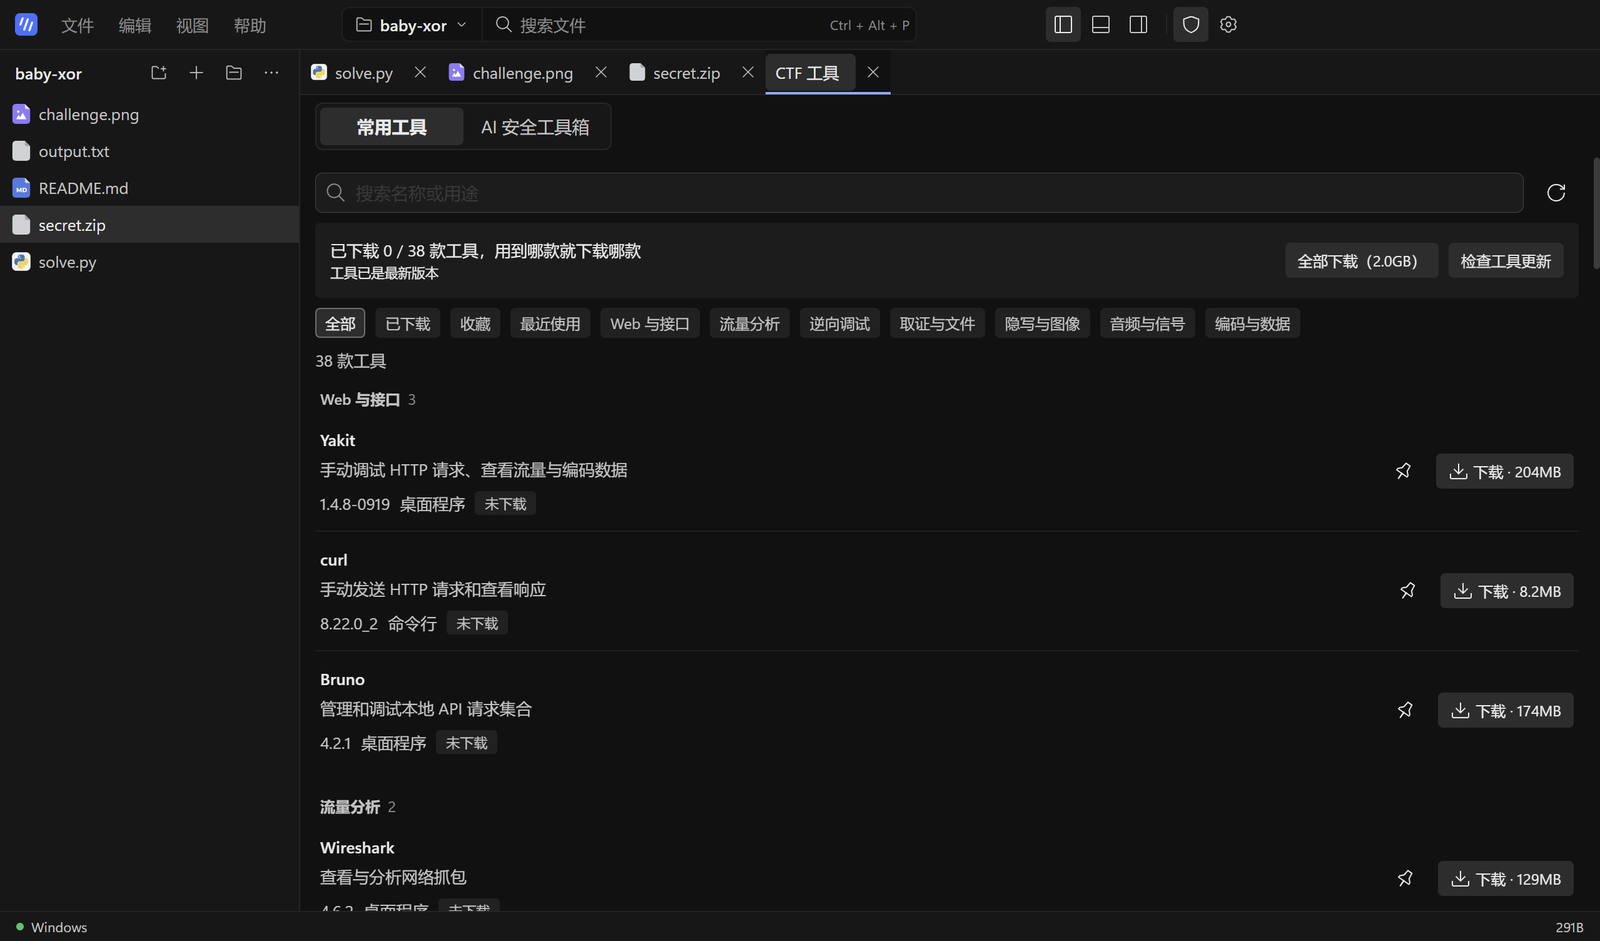
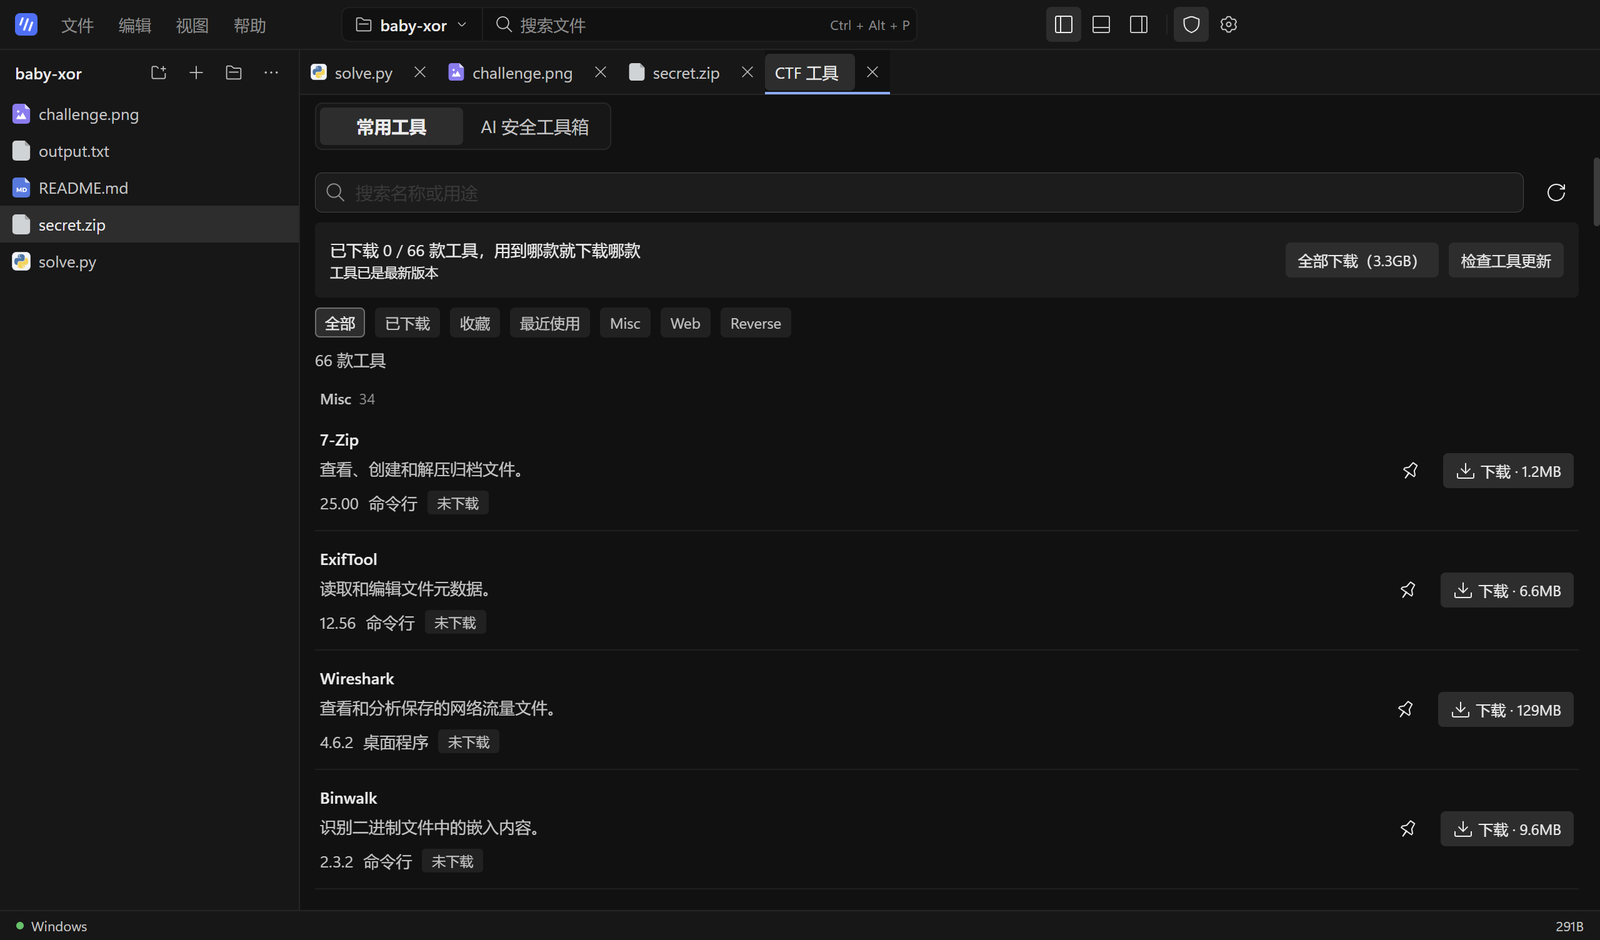
Record the 2.3.0 validation and show the 66-tool catalog

diff --git a/docs/validation.md b/docs/validation.md
@@ -1,5 +1,29 @@
 # Rainy 验收记录
 
+## 2.3.0（2026-10-14）
+
[1 lines of base64/hex data omitted]
+
+### 改动
+
+- 编辑器边写边补全：停止输入 450 毫秒后，如果光标后只有右括号或标点，就向模型请求一条建议，以灰色显示在光标后；Tab 接受，Ctrl+→ 取一个词，Esc 忽略。默认关闭，可在“设置 → 模型 → 编辑器中的 AI”或状态栏开关，并可单独选择补全模型（Host 新增 `inline.complete`，关闭时不发请求，新请求会中止上一条）。
+- Ctrl+K 改代码：选中的行（或光标处）上方出现输入框，Host 用对话模型流式生成（`inline.edit`、`inline.progress`、`inline.cancel`），新代码边生成边写入编辑器。审阅时按行比较原文，只标出改动的行，被替换的行以删除线显示；Ctrl+Enter 接受，Esc 恢复原文。Markdown 与 SVG 保留 Ctrl+K V 预览快捷键，可从右键菜单使用。
+- 偏好新增 `inlineCompletion`（默认 false）与 `completionModel`（默认空，即对话模型），旧设置文件照常读取。
+- 安装包内置工具通道修订 3 的目录：66 款工具，分为 Misc、Web、Reverse 三组（见下方“工具通道修订 3”）。
+
+### 检查
+
+- **测试**：本机 Windows 11 上 Vitest 89 个文件 805 项通过（10 项按平台跳过），node:test 132 项通过（2 项跳过）。Ubuntu 24.04 与 Windows 2022 CI 均通过（[运行记录](https://github.com/RainyMarks/Rainy/actions/runs/38609227928)）。
+- **编辑器中的 AI**：源码版本与打包程序分别在临时用户数据下连接本地模拟模型服务（OpenAI 兼容接口），打开示例题目的 `solve.py`：行尾输入后出现灰色建议，Tab 后写入代码；选中一行按 Ctrl+K 输入要求，新代码写入并标为绿色、原行以删除线显示，行号与代码对齐，Ctrl+Enter 后标记与输入框消失；“设置 → 模型”显示“编辑器中的 AI”卡片，状态栏显示补全开关。中英文界面各检查一次；只新增几行时，未改动的行不做标记。
+- **安装包内容**：7-Zip 解开后 9,332 个文件与 `release/win-unpacked` 逐一一致。
+- **试运行**：用临时用户数据启动，约 5.5 秒显示工作台。名称为 Rainy、版本为 2.3.0，66 款工具可用，页面错误为零，关闭窗口后进程全部退出。
+- **完整流程**：打包程序在临时用户数据下（中英文各一次）打开示例题目，运行 `solve.py` 得到 flag，切换图片位平面，以十六进制查看 ZIP 并扫描内嵌文件，打开 CTF 工具目录（66 款，Misc 34）和 AI 安全工具箱，页面与控制台错误为零。
+- **WSL 运行环境**：在临时 HOME 中安装约 5.7 秒，Linux Host 约 0.2 秒就绪，启动页返回 HTTP 200。
+
+### 验收范围
+
+补全和改代码只用模拟模型验证了请求、显示和接受流程，没有调用真实模型检验建议质量；没有测试从 2.2.1 自动更新到 2.3.0，也没有在打包程序中下载新增工具。从一个项目切换到另一个项目时，控制台会记录一次旧项目语言服务连接关闭，2.3.0 之前已是如此，与本次改动无关。
+
 ## 工具通道修订 3（2026-10-14）
 
 本轮发布的是 2.2.1 的按需下载工具通道，未重新制作 Windows 安装程序。签名目录含 66 款工具（Misc 34、Web 15、Reverse 17）、69 个安装归档，修订号为 3；原有 45 款工具的来源定义、版本和运行时定义与上一修订相同。新增的 21 款工具从 `7z.dist` 识别，MemProcFS 与 Volatility 3 使用官方 Windows 归档。Burp、重复的 IDA、目录中的用户配置与运行日志没有加入新增单元。

diff --git a/README.md b/README.md
@@ -14,7 +14,7 @@
 
 English | [中文](README.zh.md)
 
-[**Download for Windows (187 MB)**](https://github.com/RainyMarks/Rainy/releases/latest) · [What's new](#whats-new) · [Quick start](#run) · [Connect a model](#connect-a-model) · [Build from source](#run-from-source)
+[**Download for Windows (188 MB)**](https://github.com/RainyMarks/Rainy/releases/latest) · [What's new](#whats-new) · [Quick start](#run) · [Connect a model](#connect-a-model) · [Build from source](#run-from-source)
 
 </div>
 
@@ -32,7 +32,7 @@ Rainy puts an AI coding agent, a real editor and debugger with AI suggestions an
 | **A real editor and debugger** | AI suggestions as you type (Tab accepts) and Ctrl+K to rewrite a selection, reviewed line by line before you keep it. CodeMirror 6 with completion, hover, go to definition, rename, diagnostics, diffs and recovery of unsaved work. Run and debug Python, JavaScript/TypeScript and C/C++; run PHP. |
 | **Windows or WSL2** | Start in native Windows; move a project to a WSL2 environment whenever a challenge needs Linux tools. |
 | **Your model, your keys** | Keys stay on your machine, encrypted with Windows data protection. Model requests follow the system proxy or one you set. There is no telemetry; crash reports stay local. |
-| **Light** | A 187 MB installer. Tools, the Strata engine, PHP and the WSL runtime download only when you need them. |
+| **Light** | A 188 MB installer. Tools, the Strata engine, PHP and the WSL runtime download only when you need them. |
 
 <a id="tour"></a>
 ## A quick look
